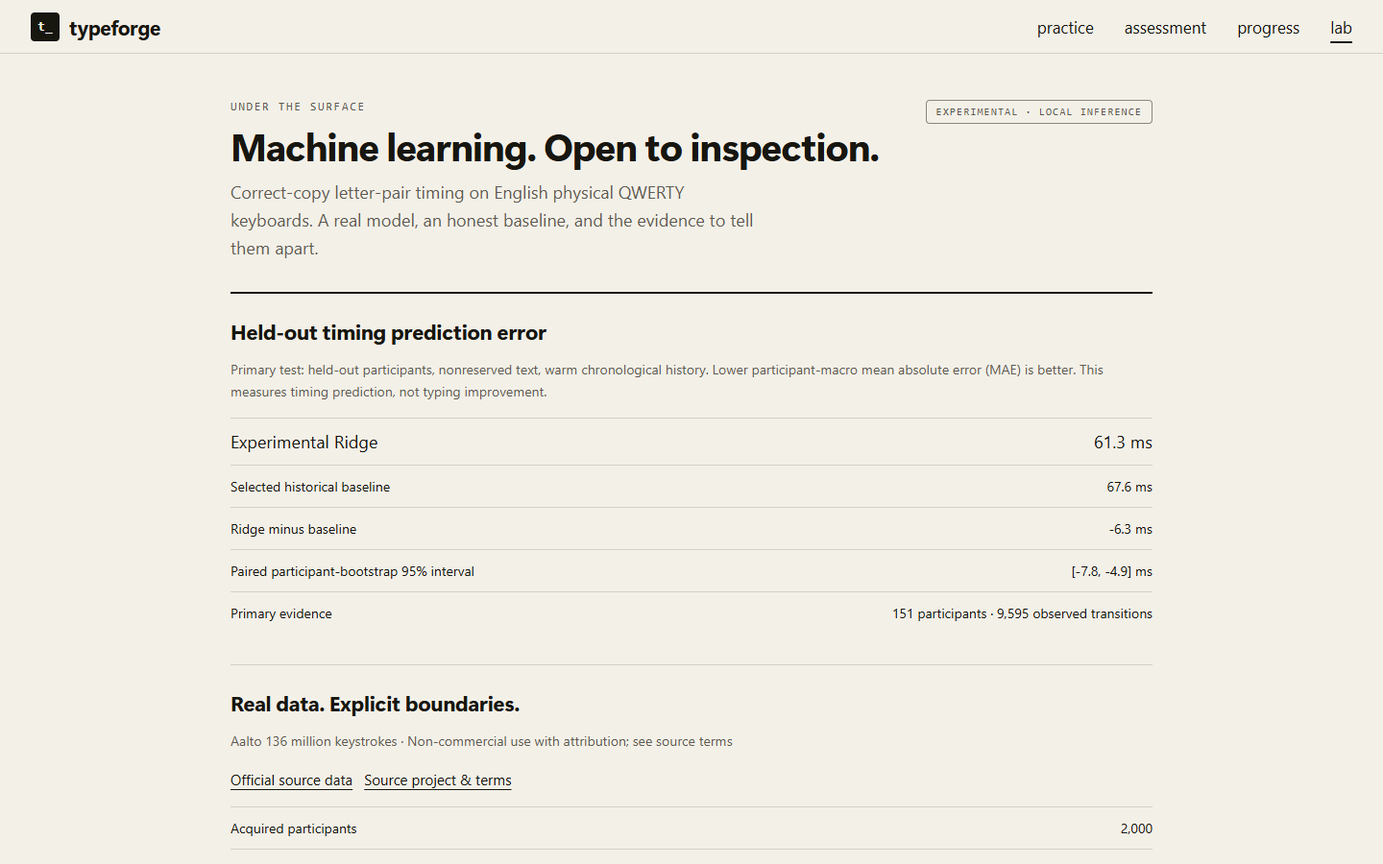
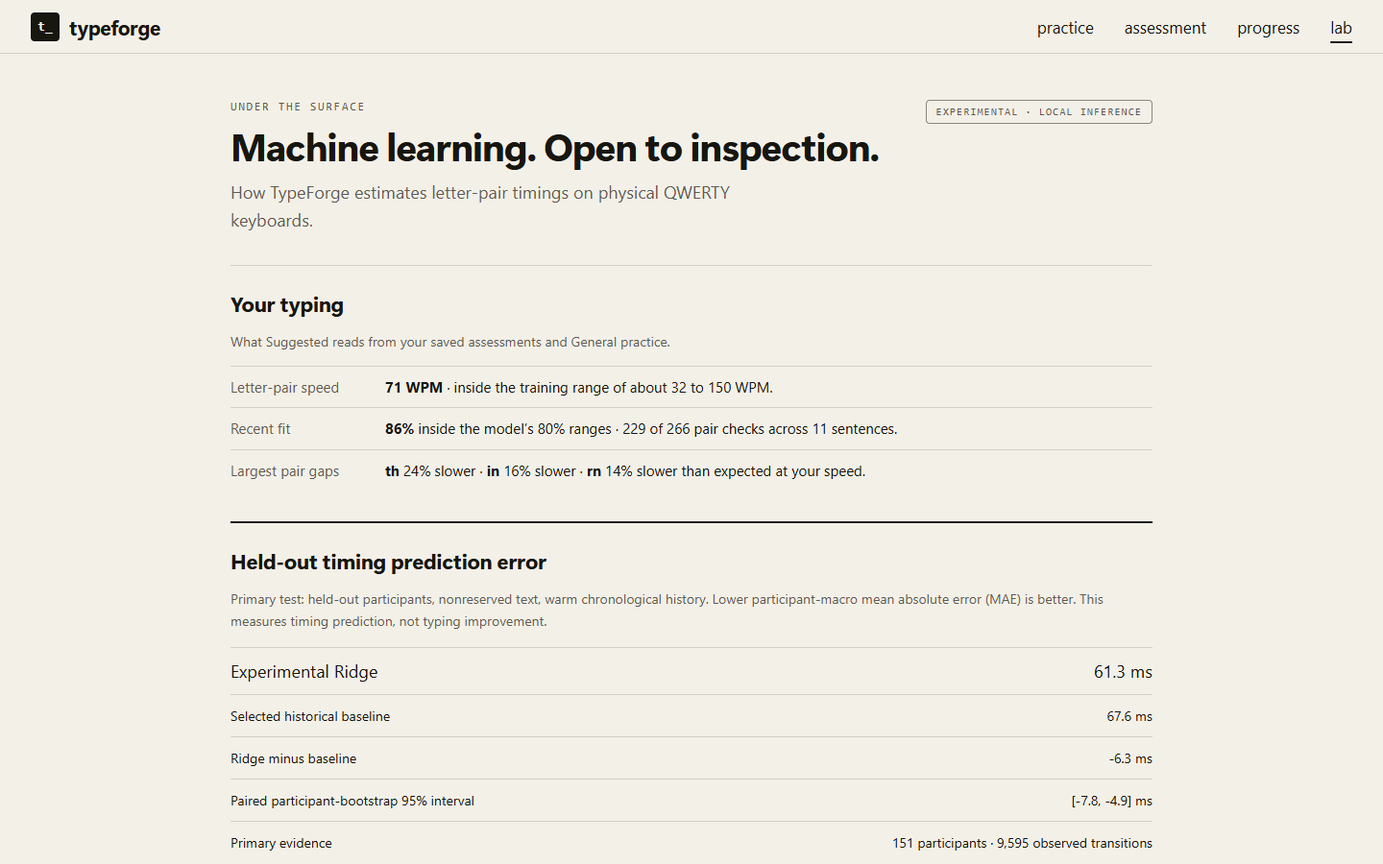
docs(coach): document L5 practice and verify the production build

diff --git a/docs/product.md b/docs/product.md
@@ -1,7 +1,5 @@
 # TypeForge product notes
 
-These notes describe the September and October 2026 versions. [Current product overview](../README.md)
-
 ## Run locally
 
 Use Node.js 24 or newer.
@@ -19,86 +17,46 @@ npm run check    # Node tests, TypeScript checking, production build
 npm run preview  # serve the production build locally
 ```
 
-The build goes to `typing-app/client/dist`. Its relative links/assets support deployment beneath `/TypeForge/`. Serve it over HTTP; opening the source HTML directly as a file does not compile TypeScript. The former prototype URLs redirect to the working pages, including `DetailedResults.html?id=...`.
+The build goes to `typing-app/client/dist`. Its relative links/assets support deployment beneath `/TypeForge/`. Serve it over HTTP so the compiled JavaScript loads. The former prototype URLs redirect to the working pages, including `DetailedResults.html?id=...`.
 
 ## Public demo deployment
 
-Vercel serves the static demo from GitHub repository `OwenC05/TypeForge`, production branch `main`. Deployment settings: Node.js **24**, root directory `typing-app/client`, install command `npm ci`, build command `npm run build`, output directory `dist`. Keep the ordinary multi-page `.html` routes; no SPA catch-all rewrite is configured. The local setup/build commands above reproduce the static output.
-
-See the [deployment evidence](verification.md#public-static-demo-deployment) for the deployed revision, CI result and HTTPS checks. Hosting the demo does not complete the accounts, transfer-study or full-release gates.
-
-The rolling-flow changes described below are a **local implementation**, not a newly verified production deployment. The recorded public smoke test covers the 30 September revision.
+Vercel builds the static demo when changes merge to `main` in `OwenC05/TypeForge`. It uses Node.js 24, runs `npm ci` and `npm run build` in `typing-app/client`, and publishes `dist`. The app uses ordinary multi-page `.html` routes. [Initial deployment and HTTPS checks](verification.md#public-static-demo-deployment)
 
 ## What works
 
-- Type in one integrated native textarea over a feedback mirror, with previous/current/next passage context. Space after the final word advances automatically, even with mistakes; Enter does not advance. Cursor movement, Backspace, word deletion and selection replacement edit only the current passage. Committed passages cannot be edited.
-- Choose 15/30/60/120 seconds before starting; 60 is the default. The first accepted text insertion starts the clock and locks the settings. URL `duration` values use seconds; unsupported values fall back visibly to 60. Restart retains the settings and starts a new run.
-- Corrected mistakes remain in attempt accuracy. WPM counts retained positional matches, including the final partial response, over the selected duration. The terminal advancing space does not count; internal spaces do. No-input accuracy is unavailable; all-wrong accuracy is zero.
-- Completed runs save in IndexedDB and can be reopened, exported or deleted. Storage failure keeps the current result visible with export and retry controls.
-- Interrupted and unsupported-input runs remain labelled in history but do not contribute to headline trends. Leaving or restarting an unfinished run discards it.
-- A self-declared physical QWERTY keyboard enables observed letter-pair timing from complete, correct, unedited sentences. Predictions freeze before each sentence. Results compare saved historical-baseline and experimental-candidate predictions with the same later eligible observations; missing or legacy predictions are labelled, never reconstructed.
-- Original content includes 80 practice and 40 assessment sentences. The finite bank cycles during a timed run; rolling flow does not promise unique or unlimited content. A fresh retest excludes every originating assessment passage, including its final partial prompt, before cycling the remaining bank. A missing, deleted, incompatible or exhausted origin produces an explained new assessment instead.
-- General, Recommended and Manual pair practice work from the Practice chooser, without requiring an assessment first. Manual offers within-word pairs supported by at least three practice passages and records your choice, not a diagnosed weakness. Practice never contributes to assessment calibration or headline trends.
-- Saved results identify duration and Space flow versus Legacy Enter. Comparisons and calibration isolate duration, interaction mode, keyboard declaration, language, corpus and metric/schema versions. Existing 60-second Enter records remain readable and exportable unchanged; they do not seed new flow comparisons or retests.
-- Exceptional safety limits stop the run with retained partial metrics/text and a diagnostic export, not a normal completed result or progress entry. Restart remains available.
-- Safety-stop recovery preserves native keyboard navigation. A correction hint identifies the first wrong character without adding another input bar. Oversized completed-result data stops with an export-only diagnostic; permanent validation errors are not offered an impossible save retry.
+- Practice opens ready to type. Choose General, Suggested or Pair and a duration of 15, 30, 60 or 120 seconds. Practice defaults to 30 seconds and assessment to 60. The app remembers their settings separately.
+- The first accepted character starts the clock. Space after the last word advances the passage. Until then you can edit it. Accuracy includes corrected mistakes, and WPM counts correctly positioned characters, including those in the final partial passage.
+- General uses the original 80 practice sentences. Assessments draw from 600 sentences. Pair mode draws from 406 sentences covering 100 letter pairs. A fresh retest excludes the originating assessment’s passages, including its final partial prompt. If the origin is missing or incompatible, the app explains why it starts a new assessment. [Sentence sources](../typing-app/client/src/generated/CORPUS-ATTRIBUTION.md)
+- Completed runs save in this browser profile and can be reopened, exported or deleted. A failed save keeps the result available for export. Interrupted or unsupported runs stay out of headline trends. If a safety limit stops a run, its partial text and metrics are available in a diagnostic export.
+- On a declared physical QWERTY keyboard, assessment results compare Ridge and historical-baseline predictions made before each sentence with the eligible timings that followed.
 
-Results belong to this browser profile and origin. Changing the hostname or port creates a different local store. Clearing site data removes local history; export JSON to keep a copy. Accounts and cloud sync are still planned. The app can finish and save a loaded session without a network connection; offline reload is not supported.
+History belongs to this browser profile and site address. Clearing site data removes it. Export JSON to keep a copy. The app can finish and save a loaded session offline. Reloading requires a network connection.
 
 ## ML evidence and coaching
 
-The default coach is the validation-selected historical baseline, not the experimental candidate. Recommended practice needs compatible assessment history, at least eight pair observations, support in three practice-bank sentences and a positive score. Otherwise it explains why a recommendation is unavailable and offers General or Manual. Recommended and Manual drills share a two-target/one-general cadence.
+Suggested reads the latest 200 clean, submitted sentences from saved QWERTY assessments and General practice. Each timing is the interval between two lowercase letters in the same word. A mistake or edit excludes that sentence. Flagged runs and all drills are excluded, including earlier Suggested blocks. Existing eligible records count on the same terms as new typing.
 
-Without the model artifact, Recommended remains unavailable: the existing scorer cannot identify a positive pair-specific focus. Warm compatible history can still provide baseline-only timing predictions; that is not a recommendation. General and Manual remain available, and manual choices never fabricate observation counts, scores or baseline evidence.
+L5 estimates how long each pair usually takes at your speed and how far your own timings differ. A practice pair needs at least two timings and a greater than 95% chance, under the model, that you take over 10% longer than expected to type it. If several pairs qualify, L5 picks the one estimated to cost the most time in ordinary text. Suggested draws from the same sentences as Pair mode for that pair, at your chosen duration. If evidence is thin, the fit is poor or QWERTY is undeclared, it runs General and explains why. A clean QWERTY General block can supply more evidence.
 
-The browser uses a versioned JSON artifact with local linear inference. [ML documentation](../ml/README.md) covers source/license, exact acquisition and reproduction commands, participant/text holdouts, chronological history, baselines, uncertainty and limitations. The ML Lab reads the paired generated report; missing or mismatched evidence is explicitly unavailable. Real-data acquisition/training is separate from CI. Public-data accuracy does not prove TypeForge transfer or typing improvement.
+The fit check uses earlier typing to predict an 80% range for each pair’s mean timing in the next sentence. It pools the pair checks from the latest 20 checked sentences. Once eight sentences have been checked, coverage below 70% sends Suggested back to General. The Lab shows your estimated letter-pair speed, whether it falls in the training range, how many checks fell inside their ranges across how many sentences, and up to three of your largest pair gaps.
 
-```text
-Public data → bounded Python acquisition / audit / holdouts → trained JSON artifact
-                                                             ↓
-Native typing → frozen browser predictions → later observations → local IndexedDB
-                                                             ↓
-                                    explained baseline focus → fresh retest
-```
-
-### Bundled experiment (30 September 2026)
-
-The genuine Aalto acquisition contains **2,000 participants**; conservative eligibility retains **1,386 participants, 5,812 trials and 117,653 transitions**. Model `aalto-ridge-83f562c419d5` links to report `benchmark-92947653a001` in `typing-app/client/src/generated/`.
-
-The preregistered primary held-out/warm/nonreserved-text slice has **151 participants and 9,595 transitions**. Participant-macro MAE is **61.30 ms** for Ridge versus **67.55 ms** for the frozen smoothed-pair baseline (k=1). The paired participant-bootstrap 95% interval for Ridge minus baseline is **−7.76 to −4.89 ms**. These are public-data timing prediction errors, not typing gains or proof of transfer to TypeForge. The historical baseline remains the coach; the candidate stays experimental. Inspect the report for secondary slices, exclusions and uncertainty limitations.
+L5 learned from full-size and laptop QWERTY keyboards. Its supported speed range is about 32–150 WPM. Outside that range it uses the pair pattern at the nearest boundary and your own pace. The held-out test measured later pair timing. Whether practising a suggested pair helps on fresh text is the question for the planned trial. [Coach model card](../ml/README.md#l5-practice-coach)
 
 ## Code map
 
-| File | Responsibility |
+| Browser source in `typing-app/client/src/` | Responsibility |
 | --- | --- |
-| `typing-app/client/src/engine.ts` | Pure clock-driven state, positional scoring, sentence eligibility and timing aggregates |
-| `typing-app/client/src/app.ts` | Native input events, page views, charts and navigation |
-| `typing-app/client/src/corpus.ts` | Versioned original sentence banks and selection |
-| `typing-app/client/src/model.ts`, `profile.ts` | Strict artifact inference, rolling history, baseline coaching and retest lineage |
-| `ml/` | Offline acquisition, benchmark, trained export and synthetic parity fixtures |
-| `typing-app/client/src/storage.ts` | Bounded result validation and direct IndexedDB transactions |
-| `typing-app/client/tests` | Node's built-in tests; no test framework |
-
-Vite and TypeScript are development dependencies. The browser bundle uses native DOM, CSS, SVG and IndexedDB APIs. There are no remote fonts, runtime CDN scripts, frontend framework or inference service.
+| `engine.ts`, `app.ts` | Typing, scoring, input events and page views |
+| `corpus.ts`, `corpus-v2.ts` | General, assessment and Pair sentences |
+| `coach-model.ts`, `coach.ts` | L5 predictions, evidence selection and fit checks |
+| `model.ts`, `profile.ts` | Ridge predictions, assessment comparisons and retest history |
+| `storage.ts` | Result validation, IndexedDB upgrades and history reads |
 
 ## Verification
 
-Fresh pre-push repair checks on **5 October** passed **97 client tests**, **21 offline Python tests**, TypeScript checking, production build and whitespace checks. Sixteen capacity tests cover the normal envelope and exceptional serialized-byte overflow. The three pre-push findings were repaired: stopped-state keyboard navigation, engine/storage byte-cap handling and visible legacy-link fallbacks. A committed [native browser regression](../typing-app/client/tests/browser/README.md) now makes the targeted production checks reproducible through the existing Playwright runner; it is explicitly invoked, not part of automatic CI. Independent post-repair review and browser results are recorded in the [verification record](verification.md#pre-push-repair-checks--5-october-2026).
-
-Fresh resumed CLI checks on 4 October passed **88 named client tests**, TypeScript checking, production build and whitespace checks. Earlier integration runs reported eight file wrappers. Fourteen capacity tests include eight measured JSON fixtures at **95,621–545,079 bytes**, below the 1MiB limit. Scoped Chromium 155 QA passed **107 assertions** across original, repair and six post-guard production checks. The post-guard regression uses trusted browser-native automation with an accelerated clock, not hardware, real-clock or AT evidence. Independent code review is **APPROVE** and architecture **CLEAR**, not overall acceptance. No lint script is configured.
-
-The unchanged bundled experiment has **21 offline Python tests** and parity fixtures covering all **682 features**, fitted Python versus browser predictions (relative tolerance **1e-6**), baseline predictions and synthetic history advancement. CI runs frontend checks and offline Python tests, not acquisition or training. The dated 30 September browser/review evidence does not certify the new flow revision.
-
-See the [verification record](verification.md) for commands, dated coverage, artifact hashes and gaps. Keyboard/CSS-zoom/reduced-motion checks are scoped evidence, **not** an accessibility audit or browser-UI zoom proof. On 4 October the user explicitly approved finishing local implementation while retaining real screen-reader/platform checks as **release gates**. Manual screen-reader/AT, OS IME, Firefox/Safari, physical-device and actual browser-UI zoom verification remain untested; none is claimed as passed.
-
-## Release boundaries and next milestones
-
-The genuine model/report are bundled and Python/browser fixture parity is checked. Independent post-repair review on **5 October** returned code **APPROVE** and architecture **CLEAR** with zero unresolved findings; initial findings remain recorded. Status: **verified local implementation / RELEASE GATES PENDING**, under the user-approved local-completion boundary. Local verification and independent code/architecture reviews pass within their scope. Final workflow/native status is recorded separately in the ledger and goal snapshots; this documentation does not certify accessibility or deployment. Historical 30 September approval is separate. See [PLAN.md](../PLAN.md) for the roadmap and [DESIGN.md](../DESIGN.md) for the interface contract.
-
-The static public demo is live on Vercel. Accounts/private cloud sync, an independently consented TypeForge transfer pilot, Firefox/Safari/physical-device QA and full public-release certification remain unfinished. No account or cloud-history backend has been provisioned. Public hosting does not establish typing gains, platform completeness or a hiring outcome. Follow the [product research](research/typing-products.md) when considering interaction changes.
-
-Schema-v1 optional prediction/focus/lineage, `settings.inputMode: 'flow-v1'` and separate `manualDrill` metadata preserve old records in the new app. Absent inputMode means the original 60-second Enter contract. IndexedDB upgrades non-destructively to database version 2 for the compound completedAt/id history index, without rewriting records. An old database-v1 app cannot open this upgraded database and may reject extended records. Export before downgrading; schemaVersion and metricVersion remain 1. Corrupt records are skipped visibly, not used as evidence or silently cleared.
+The IndexedDB upgrade from version 2 to 3 adds stores and leaves existing records in place. Earlier timed results and fixed-length Suggested blocks remain readable and exportable. See the dated checks for storage, native input and the production browser suites. [Verification record](verification.md) · [Browser runner](../typing-app/client/tests/browser/README.md)
 
 ## How this was built
 
-Owen set the product priorities and decided when to ship. A coordinating agent split the work into separate worktrees. Codex workers implemented changes and ran regression tests. Claude shaped the design and reviewed the working interface. Independent reviewers reproduced failures and checked the fixes before acceptance. The [archive of plans, reviews and test receipts](https://github.com/OwenC05/TypeForge/tree/archive/process-receipts-2026-11) is local until Owen pushes the branch.
+Owen set the product priorities and decides when to ship. A coordinating agent split the work into worktrees. Codex workers implemented changes and ran regression tests. Claude shaped the design and reviewed the interface. Independent reviewers reproduced failures and checked the fixes. The plans, reviews and test receipts are archived on the local `archive/process-receipts-2026-11` branch.

diff --git a/docs/verification.md b/docs/verification.md
@@ -1,5 +1,15 @@
 # Local verification
 
+On **25 November 2026**, a clean `npm ci` and `npm run check` on `8e92a86` passed TypeScript checking and the production build. Of 209 client tests, 202 passed and seven eligibility fixtures were skipped because the browser input model cannot represent those cases. The pinned WSL Python suite passed all 71 tests.
+
+| Windows production preview | Suggested coach | Native typing flow | P3 regressions |
+| --- | ---: | ---: | ---: |
+| Chrome 157.0.8103.80 (Chromium) | 34/34 | 46/46 assertions, 49/49 including harness checks | 11/11 |
+| Firefox 156.0 | 34/34 | — | 10 passed, 1 skipped |
+| Playwright WebKit 26.6 | 34/34 | — | 10 passed, 1 skipped |
+
+The coach checks type General, Suggested and manual Pair blocks. They verify that drills leave the Lab readout unchanged and that both a suggestion and a poor-fit fallback survive a reload. P3 covers the database upgrade and saved-history regressions. The skipped P3 case checks Chromium’s handling of an empty Backspace and end-of-text Delete. Native typing flow ran on Chromium only. [Production browser commands](../typing-app/client/tests/browser/README.md)
+
 ## Pre-push repair checks — 5 October 2026
 
 The user requested repairs and a push to `main`. Publishing does not waive the retained screen-reader/AT, OS IME, Firefox/Safari, physical-device or browser-UI zoom release gates. This section supersedes earlier local approval for the reviewed revision; historical evidence below remains dated.
@@ -29,7 +39,7 @@ Status: **verified local implementation / RELEASE GATES PENDING**. On 4 October 
 
 The fresh `resumed-cli-verification.txt` run reproduced `app-DL-4yx8D.js` and the previously reviewed `app.ts` SHA256. The 107 scoped browser assertions and 21 Python tests in the table are retained earlier evidence, **not** fresh reruns. Local evidence lives under `.omx/ultragoal/evidence/typing-flow/`; the scope decision and fresh CLI log do not certify manual platforms or deployment.
 
-Capacity fixtures include 200 short-passage commits, real shuffled banks/drills, shortest passages, corrected input up to 6,000 attempts and a retest with one fresh passage remaining. Exceptional cap overflow must produce a frozen partial diagnostic, not a completed result or assessment trend entry. Manual practice uses separate user-choice metadata; Recommended retains its observation/support/positive-score thresholds. With no model, Recommended stays unavailable even when warm compatible history supports baseline-only predictions.
+Capacity fixtures include 200 short-passage commits, real shuffled banks/drills, shortest passages, corrected input up to 6,000 attempts and a retest with one fresh passage remaining. Exceptional cap overflow must produce a frozen partial diagnostic, not a completed result or assessment trend entry. The October suite also checked manual-choice metadata and the former Recommended mode’s observation, support and score thresholds.
 
 Local, ignored `.omx/ultragoal/evidence/typing-flow/REPORT.md` records the independent browser checks, script filenames, raw JSON and reproduction through the available Playwright `browser_run_code_unsafe` tool. It is not a committed, standalone E2E suite. Core tests cover native editing/focus/selection, Space transitions, composition/repeat diagnostics, response-cap diagnostic export, save failure/retry and narrow/CSS-zoom display. Recommended/Manual journeys verify the shared cadence, metadata, settings and compatible fresh-retest lineage. The real-clock run saved a 15,000ms result/chart endpoint after three native commits and a partial passage. Recommendation history is an engine-generated fixture, not a physical assessment or benchmark observation.
 
@@ -48,9 +58,7 @@ The 30 September local-first slice had passing checks and a genuine trained arti
 After the [frontend setup](product.md#run-locally) and [Python environment setup](../ml/README.md#reproduce), run from the repository root:
 
 ```sh
-node --experimental-strip-types --test --test-isolation=none typing-app/client/tests/*.test.ts
-npm --prefix typing-app/client run test
-npm --prefix typing-app/client run typecheck
+npm --prefix typing-app/client run check
 .venv/bin/python -m unittest discover -s ml/tests -v
 ```
 
@@ -98,7 +106,7 @@ Scoped automation used **Chromium 155.0.8059.12**, a production preview and isol
 
 Those review-repair groups contained **10 restart, 7 storage, 12 focus, 16 journey, 30 core and 18 artifact/storage passing assertions**, plus the real-clock Enter regression. The earlier final-Lab group recorded 12 passes. Groups overlap; their sum is **not** a count of independent scenarios. Browser QA found and preserved the initial monotonic-clock Enter failure and, later, a stale deleted-origin Restart failure; repairs passed fresh regressions. Initial review findings and failed raw runs remain recorded rather than relabelled as passes.
 
-To repeat the historical Enter checks, use the 30 September revision. For the current local flow revision, serve its production build in a fresh browser profile, select a duration, advance several passages with Space, reopen the saved result, and exercise General/Recommended/Manual practice and compatible fresh retest. Check native edits, duration/bucket labels, blur/restart, export/delete and offline completion after loading at desktop/narrow/200% zoom. Fault injection, controlled-clock deadlines and v1 database seeding require an automation harness; this checklist does not extend the scoped current coverage recorded above.
+To repeat the historical Enter checks, use the 30 September revision. For the current production build, run the coach, native typing and P3 suites. They use isolated browser profiles and an accelerated clock. [Browser runner instructions](../typing-app/client/tests/browser/README.md)
 
 The original automation scripts and raw outputs live under **local, ignored** `.omx/ultragoal/evidence/browser/`; they use the Playwright MCP `browser_run_code_unsafe` tool and are not a standalone published npm test suite. Local `REPORT.md` and `REVIEW-REPAIR-REPORT.md` explain execution and preserve initial failures as well as successful reruns. This public document summarizes those results; it does not imply the ignored logs ship with the repository. [Home](https://github.com/OwenC05/TypeForge/blob/9b2a6605b3e9aa7c0c0e93d3c8b52bee7d0918d7/docs/screenshots/home-desktop.png), [practice](https://github.com/OwenC05/TypeForge/blob/9b2a6605b3e9aa7c0c0e93d3c8b52bee7d0918d7/docs/screenshots/practice-desktop.png) and [ML Lab](https://github.com/OwenC05/TypeForge/blob/9b2a6605b3e9aa7c0c0e93d3c8b52bee7d0918d7/docs/screenshots/ml-lab-desktop.png) screenshots remain historical 30 September captures, not rolling-flow screenshots.
 
@@ -123,15 +131,15 @@ Actual file-byte SHA256 differs from canonical JSON hashing:
[2 lines of base64/hex data omitted]
 
-Raw/participant-level data stays ignored. The Aalto source requires **non-commercial use with attribution**; see the [source and license notes](../ml/README.md#source-and-acquisition). Public instrumentation lacks browser focus/composition/repeat flags; conservative correct-copy selection is not proof of equivalent measurement. These results establish neither TypeForge transfer nor causal typing improvement. The historical baseline remains the coach.
+Raw/participant-level data stays ignored. The Aalto source requires **non-commercial use with attribution**; see the [source and license notes](../ml/README.md#source-and-acquisition). Public instrumentation lacks browser focus/composition/repeat flags; conservative correct-copy selection is not proof of equivalent measurement. These results establish neither TypeForge transfer nor causal typing improvement. The September version used the historical baseline to choose practice targets.
 
 ## Remaining gates and compatibility
 
-- Firefox, Safari, physical-keyboard/mobile-IME testing, screen-reader interaction and human usability remain untested. CSS zoom is a layout proxy, not browser-chrome zoom certification. No complete accessibility/contrast audit or universal timing-precision claim follows.
-- The 30 September responsive result/progress automation used empty states; separate populated result/progress visual inspection passed, but a populated five-assessment trend did not receive equivalent visual certification. Historical artifact/report coverage used exact isolated response mutations, not separately built artifact-free apps; incompatible/exhausted and legacy-origin coverage was limited. The current flow revision needs its own journey evidence rather than inheriting those passes.
+- The November suites cover Chrome, Firefox and Playwright WebKit on Windows. Safari, physical devices, OS input methods, screen-reader interaction and human usability still need separate testing.
+- The 30 September responsive result/progress automation used empty states; separate populated result/progress visual inspection passed, but a populated five-assessment trend did not receive equivalent visual certification. Historical artifact/report coverage used exact isolated response mutations, not separately built artifact-free apps; incompatible/exhausted and legacy-origin coverage was limited.
 - Storage checks cover the tested upgrade/pagination boundary, not arbitrarily large databases or eviction durability.
-- Accounts/private cloud sync, the independently consented 15–20-person transfer pilot and full public-release certification remain subsequent milestones. Static demo hosting is live; it does not certify an account backend or account isolation.
-- IndexedDB upgrades to database version 2 without rewriting old records. Old database-v1 apps cannot reopen that database and may reject extended records. **Export before downgrading.** Result schemaVersion and metricVersion remain 1.
+- The practice trial still awaits a design decision. [Draft trial protocol](pilot/preregistration.md)
+- P3 exercises the IndexedDB version 2→3 upgrade. Existing records stay in place and eligible assessment and General timings count as coach evidence. Earlier Suggested blocks remain readable and exportable. **Export before downgrading** to an app that opens an older database version.
 
 New optional `settings.inputMode: 'flow-v1'` and separate manual-choice metadata retain schemaVersion/metricVersion 1. Absence of inputMode keeps the original Enter/60s contract; it is not rewritten into flow. Current comparisons require matching interaction, duration, keyboard declaration, language, corpus and metric/schema versions. Practice does not feed assessment calibration or headline trends; incompatible legacy retests become explained new assessments.
 

diff --git a/ml/README.md b/ml/README.md
@@ -1,10 +1,22 @@
-# TypeForge timing experiment
+# TypeForge timing models
 
-This is a real-data, offline, non-commercial portfolio experiment, not evidence that drills improve typing. Public-data predictions remain **experimental**. The frozen validation-selected historical baseline—not Ridge—selects practice targets.
+TypeForge fits two timing models offline on public Aalto keystrokes and runs them in the browser. L5 chooses a pair for Suggested practice. Ridge and its historical baseline predict individual keystroke intervals for the comparison on saved results.
+
+## L5 practice coach
+
+L5 estimates the expected time for each letter pair at a typist’s speed, adjusted for the mix of pairs they typed. It then estimates a personal gap for each pair. Sparse observations shrink the gap toward zero.
+
+Of 134,975 training assignments in the full Aalto 136M archive, 93,478 typists supplied a clean sentence. The model fit used 7,950,952 intervals from exact, unedited copies on full-size and laptop QWERTY keyboards. An eligible interval is the time between successive key presses for adjacent lowercase letters within a word. It must be positive and at most 5,000 ms.
+
+The registered fresh test held out 16,659 typists and excluded the 2,000 from the earlier Ridge experiment. Predictions used the first half of each typist’s trials to estimate mean log timing in the second half. A pair needed two observations in each half. Across 4,240 scored typists and 13,906 qualifying typist–pair combinations, mean absolute error was **0.204 log ms** for L5 and **0.288** for the typist’s own earlier average. The paired 95% participant-bootstrap interval for the reduction was **0.079–0.088 log ms**. The registration required at least 800 scored typists and a lower endpoint above 0.020 log ms.
+
+The fit check counts how often a pair’s observed mean falls inside its predicted 80% range, using up to 20 recently checked sentences. From eight checked sentences, coverage below 70% returns Suggested to General. The threshold came from the second percentile of 803 validation typists with enough checks (70.38%, rounded down). It stopped suggestions for 15 of those 803.
+
+L5 can choose pairs for TypeForge and for a prospective practice trial. Its training speed range is about 32–150 WPM. Beyond it, L5 uses the nearest supported pair pattern and the typist’s observed pace. Few fast typists qualified for scoring. Whether training the suggested pairs improves typing on fresh text awaits the trial. [Registration](coach/PREREG.md) · [Independent review](coach/REVIEW.md) · [Results and fit calibration](coach/REPORT.md)
 
 ## Reproduce
 
-Run from the repository root with Python 3.14. The scientific packages are pinned in
+To reproduce the Ridge experiment, run from the repository root with Python 3.14. The scientific packages are pinned in
 `ml/requirements.txt`. The published config also records the interpreter build string.
 
 ```sh
@@ -88,4 +100,4 @@ The primary estimand is test participants / nonreserved prompts / warm history p
 
 `fixtures/parity.json` uses `{synthetic,modelVersion,cases:[{prompt,history,occurrences:[{position,pair,features,predictedLogMs,predictedMs}]}]}`. Expected fixture predictions are captured from the original fitted estimator/scaler before coefficient folding, then export independently checks their agreement. `transitionFixture` provides an increasing synthetic event stream, retained observations and expected advanced history. Browser/Python tolerance is relative 1e-6. Cold and warm mixed-case/apostrophe inputs cover fallback and word-position semantics. No inference library or remote prediction API is required.
 
-Public-data success does not establish TypeForge transfer, instrument equivalence, causal coaching efficacy or hiring outcomes. Accounts, independent consented pilot and release/browser/physical-device gates remain separate work.
+The Ridge benchmark measures prediction error on Aalto typing. Differences in browser instrumentation and text can affect how well those estimates transfer to TypeForge.

diff --git a/README.md b/README.md
@@ -1,26 +1,22 @@
 # TypeForge
 
-TypeForge opens straight into typing practice and can suggest letter pairs after ten qualifying 30-second QWERTY assessments. Timing predictions run locally, and your typing history stays in this browser. **[Try the live demo](https://typeforge-alpha.vercel.app)**
+TypeForge opens straight into typing practice. Suggested names a letter pair your saved typing shows is slower than expected at your speed. It runs General practice if the evidence is thin, the model fits your recent typing poorly, or you haven’t declared a physical QWERTY keyboard. Your history and predictions stay in this browser. **[Try the live demo](https://typeforge-alpha.vercel.app)**
 
-<a href="docs/screenshots/practice-desktop.png"><img src="docs/screenshots/practice-desktop.png" width="320" alt="General practice mid-run, with completed words and the next letters to type"></a> <a href="docs/screenshots/ml-lab-desktop.png"><img src="docs/screenshots/ml-lab-desktop.png" width="320" alt="ML Lab showing held-out timing errors for Ridge and the historical baseline"></a>
+<a href="docs/screenshots/practice-desktop.png"><img src="docs/screenshots/practice-desktop.png" width="320" alt="General practice mid-run, with completed words and the next letters to type"></a> <a href="docs/screenshots/ml-lab-desktop.png"><img src="docs/screenshots/ml-lab-desktop.png" width="320" alt="ML Lab showing a typist’s pair speed, recent fit and largest timing gaps"></a>
 
 ### How it works
 
 ```mermaid
 flowchart LR
-    A[Aalto keystrokes] -->|Python pipeline| M[JSON model] -->|Browser inference| F[Frozen predictions]
-    F --> C[Compare]
-    T[Type a sentence] --> O[Observe timing] --> C
-    O --> P[Choose practice] --> T
+    A[Aalto keystrokes] -->|Fit in Python| M[L5 pair timings by speed]
+    M --> C[Compare in the browser]
+    T[Saved assessments and General practice] --> C
+    C --> P[Suggest a pair or run General]
 ```
 
-**Public-data timing prediction · 30 September 2026.** Mean absolute error per typist was **61.30 ms for Ridge** vs **67.55 ms for the baseline** (151 held-out typists, 9,595 intervals). Typing gains remain unmeasured.
+**Ridge · 30 September 2026.** For 9,595 individual intervals from 151 held-out typists, mean absolute error per typist was **61.30 ms** for Ridge and **67.55 ms** for the historical baseline.
 
-### Next
-
-- Estimate expected letter-pair timing for a typist at your speed.
-- Choose practice for pairs where you consistently take longer than expected.
-- Test whether targeted practice helps on fresh text.
+**L5 coach · later pair timing.** Of 16,659 held-out typists, 4,240 had repeated pairs to score. Mean absolute error was **0.204 log ms** for L5 against **0.288** for the typist’s own earlier average. The paired 95% interval for the reduction was **0.079–0.088 log ms**. Whether practising these pairs helps on fresh text remains open for the planned trial. [Fresh test results](ml/coach/REPORT.md#fresh-test)
 
 **Quick start** · With Node.js 24+ in `typing-app/client`, run `npm ci` and then `npm run dev`.<br>
-[Product details](docs/product.md) · [ML experiment and reproduction](ml/README.md) · [Verification](docs/verification.md)
+[Product details](docs/product.md) · [Models and reproduction](ml/README.md) · [Verification](docs/verification.md)
